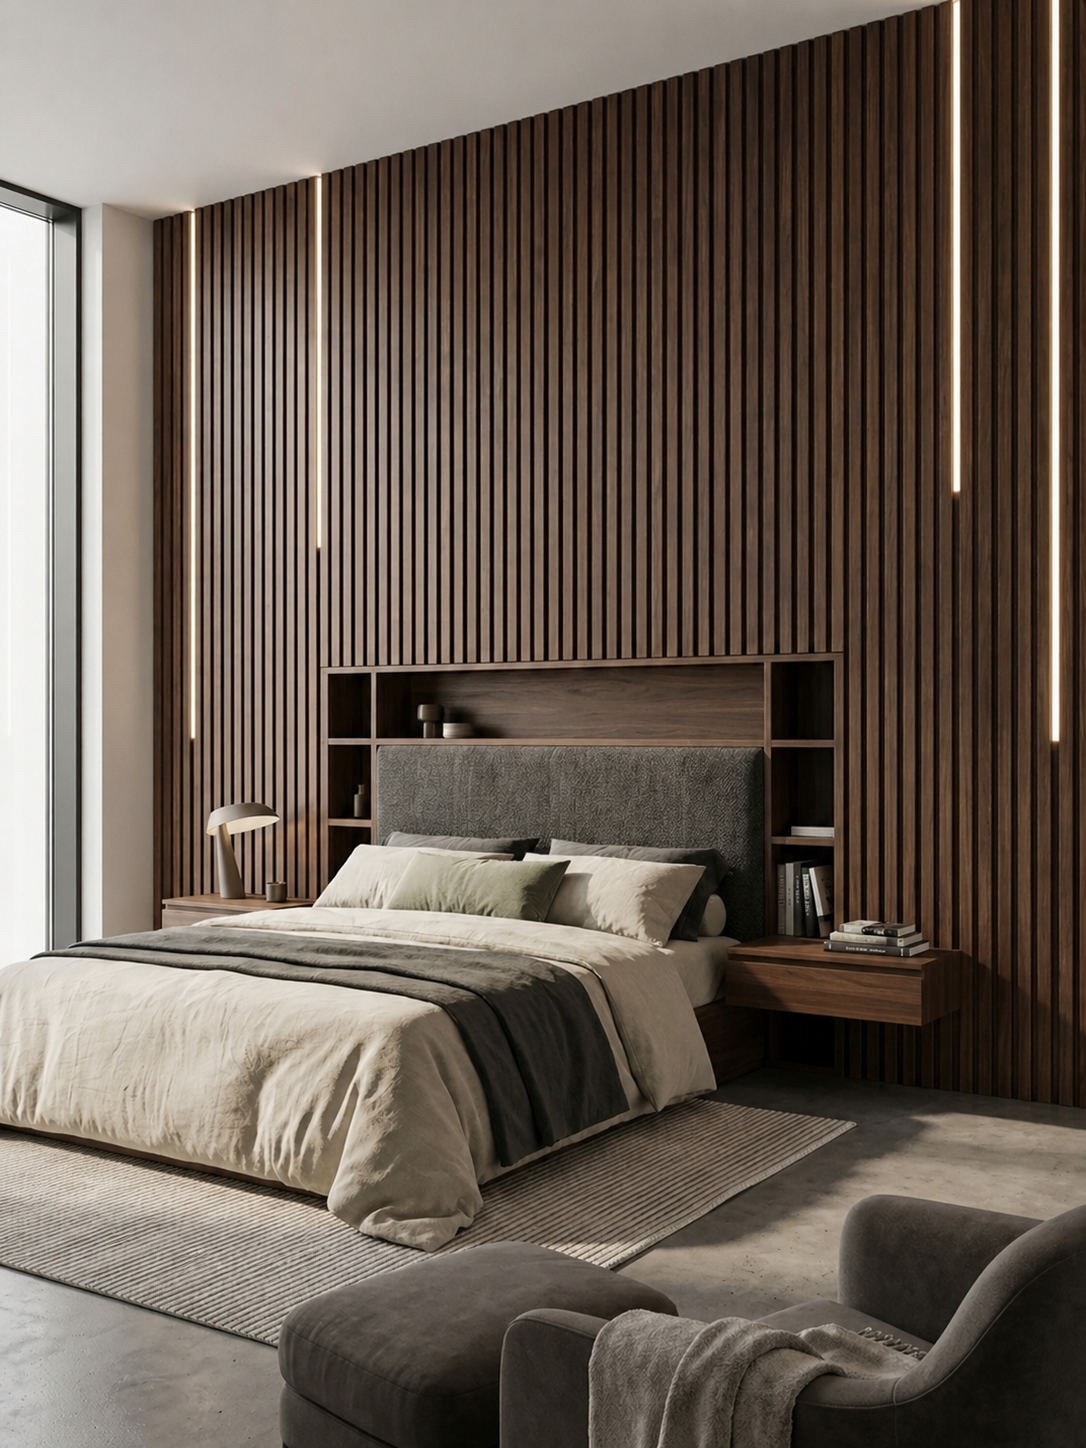
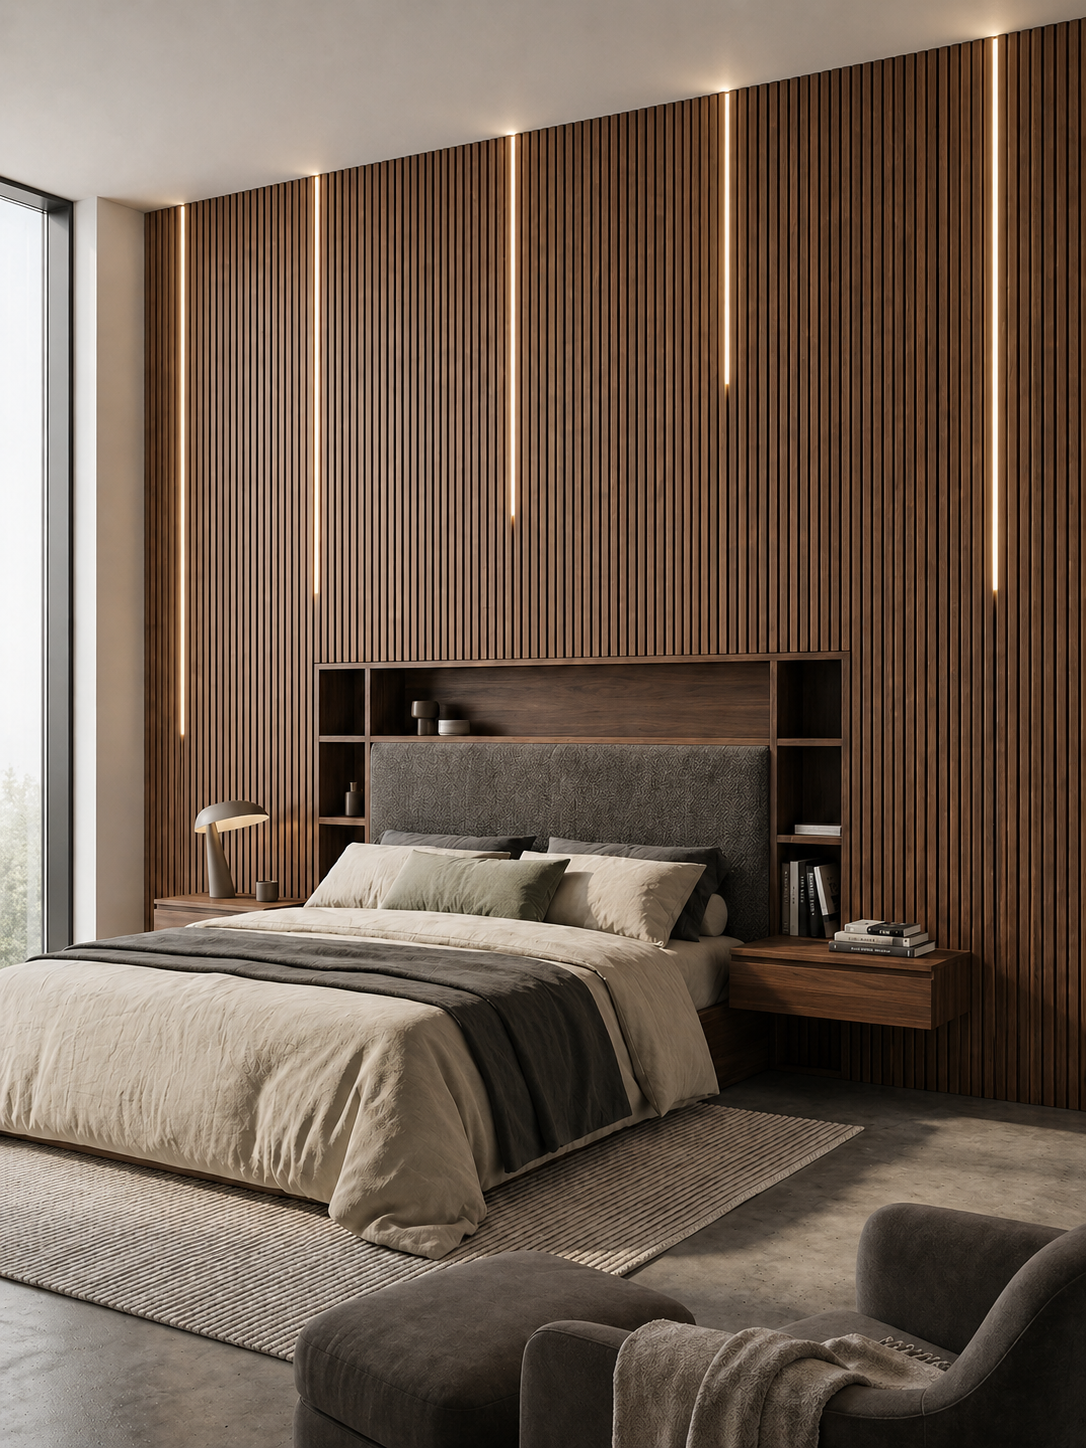
idk

diff --git a/app/productos/[slug]/page.tsx b/app/productos/[slug]/page.tsx
@@ -235,7 +235,7 @@ const revestimientosSubcategorias: Record<string, RevestimientoItem[]> = {
   ],
   'Revestimientos Especiales': [
     {
-      name: 'Cnacharana',
+      name: 'Cancharana',
       imagenPerfil: '/media/revestimientos/especiales/cancharanaperfil.png',
       imagenProducto: '/media/revestimientos/especiales/cancharana1.png'
     },
@@ -788,84 +788,67 @@ export default function ProductPage() {
             )}
 
             {selectedRevestimientoCategoria && (
-              <div className="max-w-6xl mx-auto">
-                <div className="grid grid-cols-2 sm:grid-cols-3 lg:grid-cols-4 gap-4 lg:gap-6">
+              <>
+                <div className="grid grid-cols-1 sm:grid-cols-2 lg:grid-cols-3 gap-2">
                   {revestimientosSubcategorias[selectedRevestimientoCategoria].map((item, index) => {
                     const tieneDosVistas = item.imagenPerfil !== item.imagenProducto
                     const labelAmpliar =
                       item.name?.trim() ||
                       `${selectedRevestimientoCategoria} — ${index + 1}`
                     return (
-                      <div
+                      <button
+                        type="button"
                         key={index}
-                        className="group bg-white rounded-md overflow-hidden shadow-md hover:shadow-xl transition-all duration-300 border border-stone-200 hover:border-stone-300"
+                        className="group relative aspect-[3/4] overflow-hidden rounded-lg shadow-md hover:shadow-2xl transition-all duration-500 cursor-zoom-in border border-stone-200 hover:border-stone-300 text-left w-full bg-stone-100 focus:outline-none focus-visible:ring-2 focus-visible:ring-red-600 focus-visible:ring-offset-2"
+                        onClick={() => {
+                          if (tieneDosVistas) {
+                            setCatalogImageLightbox([
+                              { src: item.imagenPerfil, caption: `${labelAmpliar} — perfil` },
+                              { src: item.imagenProducto, caption: `${labelAmpliar} — detalle` }
+                            ])
+                          } else {
+                            setCatalogImageLightbox([
+                              { src: item.imagenPerfil, caption: labelAmpliar }
+                            ])
+                          }
+                        }}
+                        aria-label={`Ampliar imagen: ${labelAmpliar}`}
                       >
-                        <button
-                          type="button"
-                          className="relative w-[100%] max-w-full mx-auto block aspect-[4/3] overflow-hidden bg-stone-100 cursor-zoom-in text-left focus:outline-none focus-visible:ring-2 focus-visible:ring-red-600 focus-visible:ring-offset-2"
-                          onClick={() => {
-                            if (tieneDosVistas) {
-                              setCatalogImageLightbox([
-                                { src: item.imagenPerfil, caption: `${labelAmpliar} — perfil` },
-                                { src: item.imagenProducto, caption: `${labelAmpliar} — detalle` }
-                              ])
-                            } else {
-                              setCatalogImageLightbox([
-                                { src: item.imagenPerfil, caption: labelAmpliar }
-                              ])
-                            }
-                          }}
-                          aria-label={`Ampliar imagen: ${labelAmpliar}`}
-                        >
-                          {/* Por defecto: perfil; al hover: producto (si hay dos imágenes distintas) */}
+                        <Image
+                          src={item.imagenPerfil}
+                          alt={tieneDosVistas ? `${item.name} - perfil` : item.name}
+                          fill
+                          className={`object-cover transition-all duration-700 ${
+                            tieneDosVistas
+                              ? 'opacity-100 group-hover:opacity-0 group-hover:scale-110'
+                              : 'group-hover:scale-110'
+                          }`}
+                          sizes="(max-width: 640px) 100vw, (max-width: 1024px) 50vw, 33vw"
+                          quality={85}
+                        />
+                        {tieneDosVistas && (
                           <Image
-                            src={item.imagenPerfil}
-                            alt={tieneDosVistas ? `${item.name} - perfil` : item.name}
+                            src={item.imagenProducto}
+                            alt={item.name}
                             fill
-                            className={`object-cover transition-all duration-500 ${
-                              tieneDosVistas
-                                ? 'opacity-100 scale-100 group-hover:opacity-0 group-hover:scale-105'
-                                : 'group-hover:scale-105'
-                            }`}
-                            sizes="(max-width: 840px) 50vw, (max-width: 1324px) 33vw, 25vw"
+                            className="object-cover absolute inset-0 transition-all duration-700 opacity-0 group-hover:opacity-100 group-hover:scale-110"
+                            sizes="(max-width: 640px) 100vw, (max-width: 1024px) 50vw, 33vw"
                             quality={85}
                           />
-                          {tieneDosVistas && (
-                            <Image
-                              src={item.imagenProducto}
-                              alt={item.name}
-                              fill
-                              className="object-cover absolute inset-0 transition-all duration-500 opacity-0 scale-100 group-hover:opacity-100 group-hover:scale-105"
-                              sizes="(max-width: 840px) 50vw, (max-width: 1324px) 33vw, 25vw"
-                              quality={85}
-                            />
-                          )}
-                          <div className="absolute inset-0 bg-black/0 group-hover:bg-black/10 transition-all duration-300 flex items-center justify-center pointer-events-none">
-                            
-                          </div>
-                        </button>
-                        <div className="p-4 relative min-h-[3rem] flex flex-col items-center justify-center gap-2">
-                          {tieneDosVistas ? (
-                            <>
-                              <h3 className="text-sm lg:text-base font-semibold text-stone-900 text-center transition-all duration-300 group-hover:opacity-0">
-                                {item.name}
-                              </h3>
-                              <h3 className="absolute inset-0 flex items-center justify-center text-sm lg:text-base font-semibold text-red-600 text-center px-4 opacity-0 transition-all duration-300 group-hover:opacity-100">
-                                {item.name}
-                              </h3>
-                            </>
-                          ) : (
-                            <h3 className="text-sm lg:text-base font-semibold text-stone-900 text-center group-hover:text-red-600 transition-colors duration-300">
-                              {item.name}
-                            </h3>
-                          )}
+                        )}
+                        <div className="absolute inset-0 bg-gradient-to-t from-black/85 via-black/30 to-transparent transition-opacity duration-500 group-hover:from-black/90" />
+                        <div className="absolute inset-x-0 bottom-0 p-5 lg:p-6">
+                          <h3 className="text-lg lg:text-2xl font-semibold text-white leading-snug drop-shadow-md transition-colors duration-300 group-hover:text-red-300">
+                            {item.name}
+                          </h3>
                           {item.description && (
-                            <p className="text-xs sm:text-sm text-stone-600 text-center leading-relaxed max-w-prose">
+                            <p className="mt-1 text-xs sm:text-sm text-white/85 leading-relaxed line-clamp-2">
                               {item.description}
                             </p>
                           )}
+                          <div className="mt-2 h-0.5 w-10 bg-red-600 transition-all duration-500 group-hover:w-20" />
                         </div>
-                      </div>
+                      </button>
                     )
                   })}
                 </div>
@@ -874,7 +857,7 @@ export default function ProductPage() {
                     Esta subcategoría aún no tiene productos cargados.
                   </p>
                 )}
-              </div>
+              </>
             )}
           </div>
         </section>
